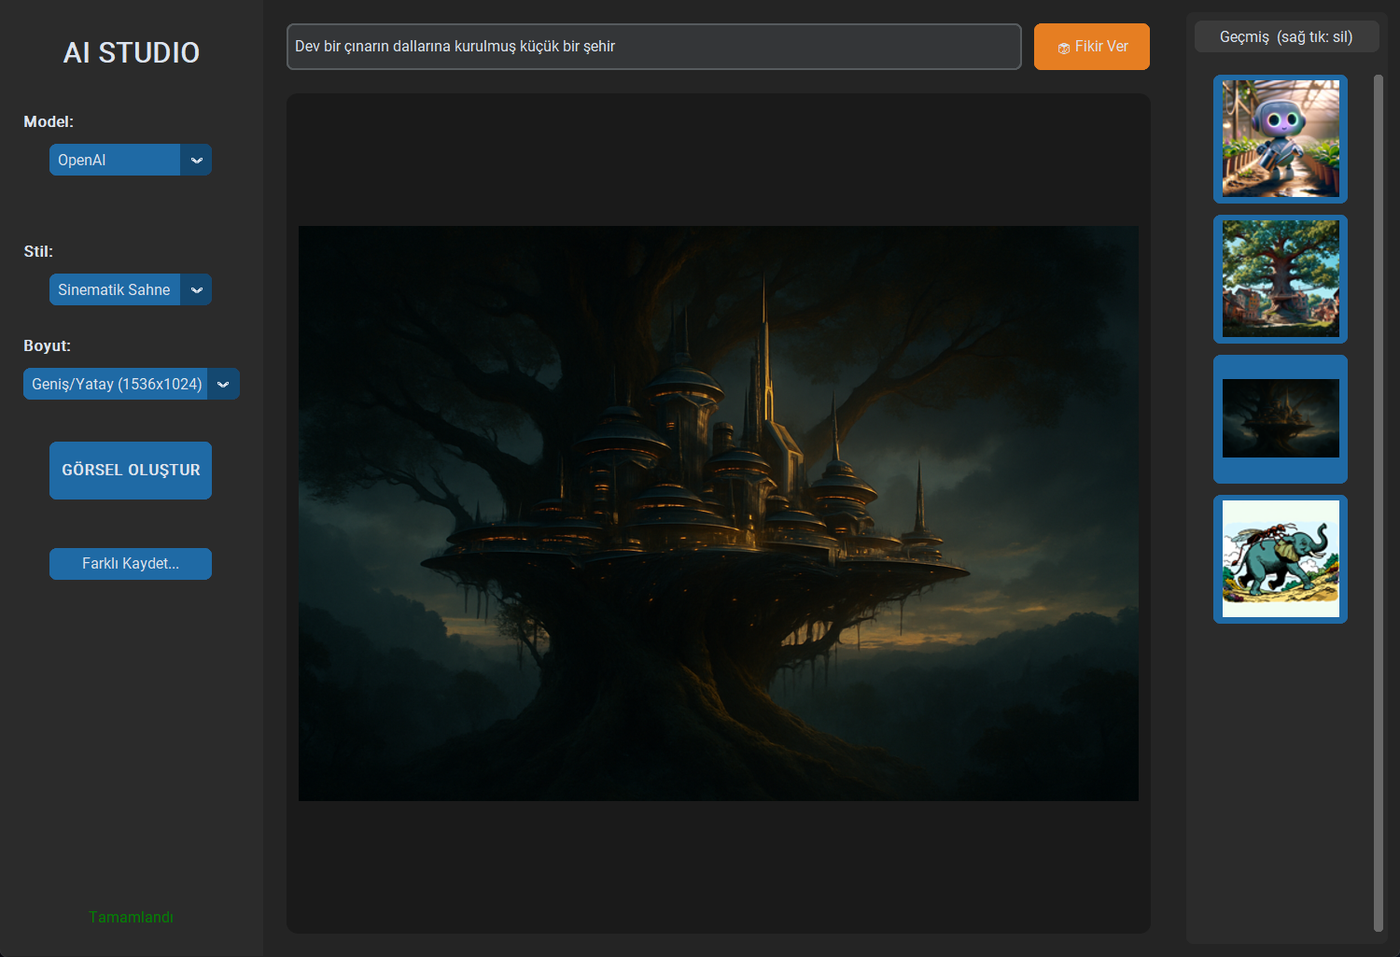
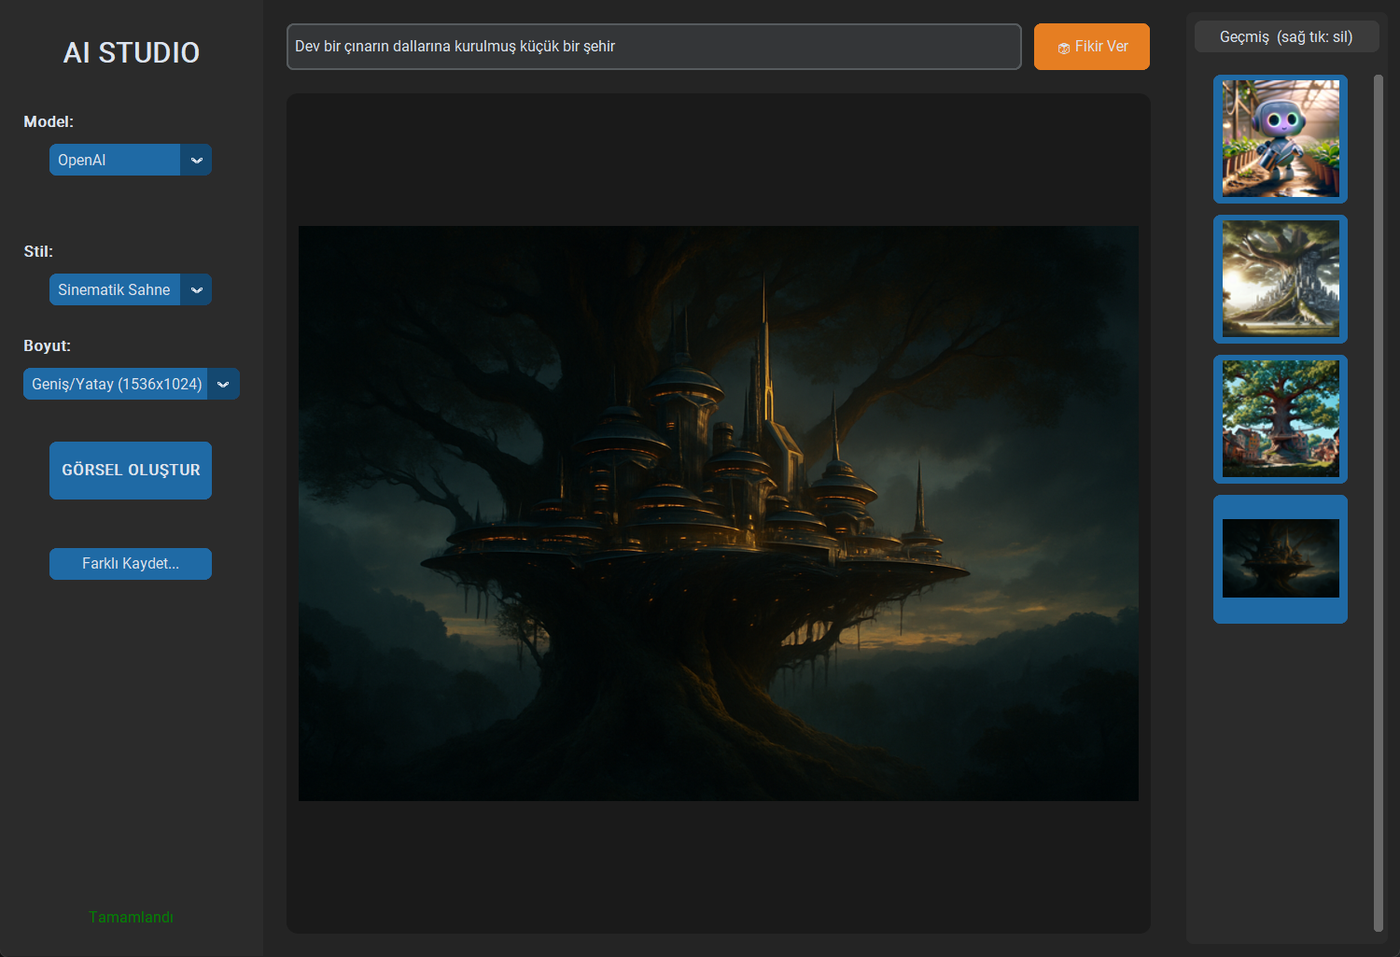
Lisans bölümünü LICENSE'a bağla, çizim örneğini kaldır
- "MIT" tek başına duruyordu; artık LICENSE dosyasına bağlantı veriyor
- Anime / Çizim örneği README'den ve ornekler/ klasöründen çıkarıldı
- Kalan örnekler 01-04 olarak yeniden numaralandı
- Ekran görüntüsü, kaldırılan görsel geçmiş şeridinde görünmesin diye
  yeniden alındı

Changed region(s): [[0.86, 0.2121, 0.9829, 0.6667]]

diff --git a/README.md b/README.md
@@ -19,11 +19,7 @@ Solda model, stil ve boyut seçimi; ortada üretilen görselin önizlemesi; sağ
 
 *Sinematik Sahne* stili, 1536x1024 geniş format — `gpt-image-1` ile üretildi.
 
-![Çizim](ornekler/04-cizim-fil-karinca.png)
-
-*Anime / Çizim* stili, 1024x1024.
-
-![Hugging Face](ornekler/05-huggingface-agac-kasaba.png)
+![Hugging Face](ornekler/04-huggingface-agac-kasaba.png)
 
 Aynı *Sinematik Sahne* stili, bu kez **Hugging Face** sağlayıcısıyla (Stable Diffusion 3 Medium) — sağlayıcı değişse de stil talimatı aynı şekilde uygulanıyor.
 
@@ -158,4 +154,4 @@ Her iki yol da canlı olarak test edildi ve görsel üretmesi doğrulandı.
 
 ## Lisans
 
-MIT
+MIT — ayrıntılar için [LICENSE](LICENSE) dosyasına bakın.
